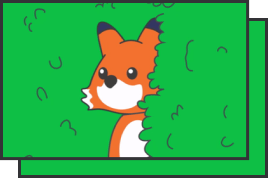
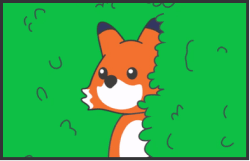
design feedback: increase fox bush gif by 10%

diff --git a/media/css/firefox/nothing-personal/_things.scss b/media/css/firefox/nothing-personal/_things.scss
@@ -40,8 +40,8 @@
     position: relative;
 }
 
-$fox-bush-width: 124px;
-$fox-bush-height: 79px;
+$fox-bush-width: 136px;
+$fox-bush-height: 87px;
 
 .c-things-fox-bush {
     display: none;
@@ -49,7 +49,7 @@ $fox-bush-height: 79px;
     @media #{$mq-lg} {
         display: block;
         position: absolute;
-        left: -#{$layout-xl};
+        left: calc(#{$layout-lg} * -2);
         top: $layout-lg;
 
         &::after {
@@ -60,6 +60,7 @@ $fox-bush-height: 79px;
             width: $fox-bush-width;
             left: 10px;
             top: 10px;
+            border: $border-black;
         }
     }
 }
@@ -71,6 +72,7 @@ $fox-bush-height: 79px;
     object-position: bottom; // cut off browser bar at top
     position: relative;
     z-index: 10;
+    border: 1px solid #333336;
 }
 
 .c-things-browser {
